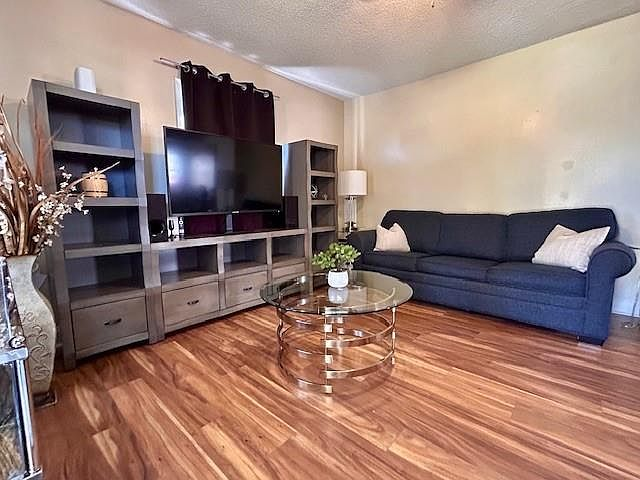
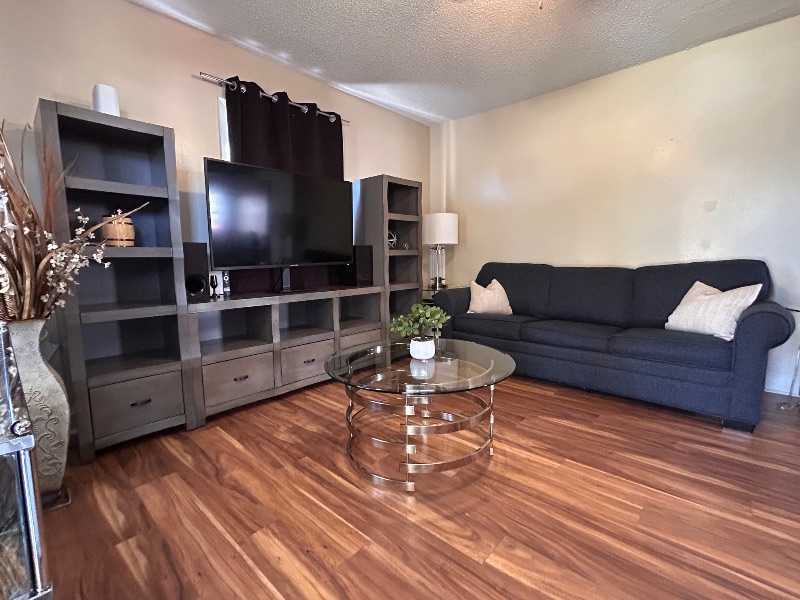
Add Veteran-Managed billing, fix mobile brand, upgrade 508 photos
Billing: "Veteran-Managed" now sits next to "Woman-Owned" in the hero eyebrow
and the About page header. The prose elsewhere already credited StrikeWorks as
veteran-owned; this makes the pairing visible as a badge.

Mobile brand: below 480px the header dropped the company name entirely,
leaving a bare "R". It now hides only the word "Reign" and the location
sub-line, so the mark plus "Property Holdings" still reads as the full name.
The old rule was unscoped and also blanked the footer's brand text; it is now
scoped to .site-header, so the footer keeps its full name.

508 Avenue E photos: bathroom.jpg was not a bathroom. It was an empty bedroom,
mismapped when the Redfin set was renamed earlier, so the gallery labeled a
bedroom "Bathroom" and showed no bathroom at all. It is now the real, currently
renovated bathroom.

The other three swaps replace 640x480 files with 800x600 versions of the same
shots. All four come from the owner's own TurboTenant listing, whose robots.txt
explicitly allows /p/. Re-encoded at quality 82 because the source files ran
~900K for only 800x600.

Worth recording for anyone tempted to re-source these: 1024x682 is the ceiling.
Redfin's bigphoto is its largest variant (islphoto and mbphoto are smaller,
genFull and fullphoto 404), TurboTenant tops out at 800x600, and Zillow is
behind a CAPTCHA. There is no higher-resolution copy to find.

diff --git a/public/property-508-avenue-e.html b/public/property-508-avenue-e.html
@@ -65,7 +65,7 @@
   <div class="container nav">
     <a href="index.html" class="brand">
       <span class="brand-mark">R</span>
-      <span>Reign Property Holdings<span class="brand-sub">New Orleans, LA</span></span>
+      <span class="brand-name"><span class="brand-first">Reign </span>Property Holdings<span class="brand-sub">New Orleans, LA</span></span>
     </a>
     <nav class="nav-links">
       <a href="index.html">Home</a>
@@ -102,16 +102,16 @@
           <img src="images/properties/508-avenue-e/exterior-front.jpg" alt="Front exterior thumbnail" width="1024" height="682" loading="lazy">
         </button>
         <button data-full="images/properties/508-avenue-e/exterior-porch.jpg" data-alt="Front porch at 508 Avenue E">
-          <img src="images/properties/508-avenue-e/exterior-porch.jpg" alt="Front porch thumbnail" width="640" height="480" loading="lazy">
+          <img src="images/properties/508-avenue-e/exterior-porch.jpg" alt="Front porch thumbnail" width="800" height="600" loading="lazy">
         </button>
         <button data-full="images/properties/508-avenue-e/living-room.jpg" data-alt="Living room at 508 Avenue E">
           <img src="images/properties/508-avenue-e/living-room.jpg" alt="Living room thumbnail" width="1024" height="682" loading="lazy">
         </button>
         <button data-full="images/properties/508-avenue-e/living-room-furnished.jpg" data-alt="Living room at 508 Avenue E">
-          <img src="images/properties/508-avenue-e/living-room-furnished.jpg" alt="Living room thumbnail" width="640" height="480" loading="lazy">
+          <img src="images/properties/508-avenue-e/living-room-furnished.jpg" alt="Living room thumbnail" width="800" height="600" loading="lazy">
         </button>
         <button data-full="images/properties/508-avenue-e/living-room-furnished-2.jpg" data-alt="Living room at 508 Avenue E">
-          <img src="images/properties/508-avenue-e/living-room-furnished-2.jpg" alt="Living room thumbnail" width="640" height="480" loading="lazy">
+          <img src="images/properties/508-avenue-e/living-room-furnished-2.jpg" alt="Living room thumbnail" width="800" height="600" loading="lazy">
         </button>
         <button data-full="images/properties/508-avenue-e/kitchen.jpg" data-alt="Kitchen at 508 Avenue E">
           <img src="images/properties/508-avenue-e/kitchen.jpg" alt="Kitchen thumbnail" width="1024" height="682" loading="lazy">
@@ -120,7 +120,7 @@
           <img src="images/properties/508-avenue-e/bedroom.jpg" alt="Bedroom thumbnail" width="1024" height="682" loading="lazy">
         </button>
         <button data-full="images/properties/508-avenue-e/bathroom.jpg" data-alt="Bathroom at 508 Avenue E">
-          <img src="images/properties/508-avenue-e/bathroom.jpg" alt="Bathroom thumbnail" width="1024" height="682" loading="lazy">
+          <img src="images/properties/508-avenue-e/bathroom.jpg" alt="Bathroom thumbnail" width="800" height="600" loading="lazy">
         </button>
       </div>
     </div>

diff --git a/public/index.html b/public/index.html
@@ -45,7 +45,7 @@
   <div class="container nav">
     <a href="index.html" class="brand">
       <span class="brand-mark">R</span>
-      <span>Reign Property Holdings<span class="brand-sub">New Orleans, LA</span></span>
+      <span class="brand-name"><span class="brand-first">Reign </span>Property Holdings<span class="brand-sub">New Orleans, LA</span></span>
     </a>
     <nav class="nav-links">
       <a href="index.html" class="active">Home</a>
@@ -71,7 +71,7 @@
 
 <section class="hero" style="background-image:url('images/properties/1332-tricou/exterior-front.jpg');">
   <div class="container hero-inner">
-    <span class="eyebrow">Louisiana-Based &middot; Woman-Owned &middot; Family-Operated</span>
+    <span class="eyebrow">Louisiana-Based &middot; Woman-Owned &middot; Veteran-Managed &middot; Family-Operated</span>
     <h1>Quality rental homes in New Orleans, managed the right way.</h1>
     <p class="lead">Reign Property Holdings acquires and renovates residential properties across the Greater New Orleans area. Day-to-day management is handled by StrikeWorks, with the same hands-on, resident-first approach.</p>
     <div class="hero-actions">

diff --git a/public/about.html b/public/about.html
@@ -45,7 +45,7 @@
   <div class="container nav">
     <a href="index.html" class="brand">
       <span class="brand-mark">R</span>
-      <span>Reign Property Holdings<span class="brand-sub">New Orleans, LA</span></span>
+      <span class="brand-name"><span class="brand-first">Reign </span>Property Holdings<span class="brand-sub">New Orleans, LA</span></span>
     </a>
     <nav class="nav-links">
       <a href="index.html">Home</a>
@@ -73,7 +73,7 @@
   <div class="container">
     <div class="breadcrumb"><a href="index.html">Home</a> / About</div>
     <h1>About Reign Property Holdings</h1>
-    <p>A Louisiana limited liability company, woman-owned, focused on rental real estate in the Greater New Orleans area.</p>
+    <p>A Louisiana limited liability company, woman-owned and veteran-managed, focused on rental real estate in the Greater New Orleans area.</p>
   </div>
 </section>
 

diff --git a/public/css/style.css b/public/css/style.css
@@ -206,7 +206,13 @@ a { color: inherit; text-decoration: none; }
 }
 
 @media (max-width: 480px) {
-  .brand > span:not(.brand-mark) { display: none; }
+  /* Narrow screens drop the "Reign" word and the location sub-line, leaving
+     the "R" mark followed by "Property Holdings" — which still reads as the
+     full name. Scoped to the header on purpose: the old unscoped rule also
+     blanked the footer's brand text, leaving a bare "R" down there. */
+  .site-header .brand-first,
+  .site-header .brand-sub { display: none; }
+  .site-header .brand { font-size: 1rem; }
   .brand-mark { width: 38px; height: 38px; font-size: 1.1rem; }
 }
 

diff --git a/public/apply.html b/public/apply.html
@@ -45,7 +45,7 @@
   <div class="container nav">
     <a href="index.html" class="brand">
       <span class="brand-mark">R</span>
-      <span>Reign Property Holdings<span class="brand-sub">New Orleans, LA</span></span>
+      <span class="brand-name"><span class="brand-first">Reign </span>Property Holdings<span class="brand-sub">New Orleans, LA</span></span>
     </a>
     <nav class="nav-links">
       <a href="index.html">Home</a>

diff --git a/public/contact.html b/public/contact.html
@@ -45,7 +45,7 @@
   <div class="container nav">
     <a href="index.html" class="brand">
       <span class="brand-mark">R</span>
-      <span>Reign Property Holdings<span class="brand-sub">New Orleans, LA</span></span>
+      <span class="brand-name"><span class="brand-first">Reign </span>Property Holdings<span class="brand-sub">New Orleans, LA</span></span>
     </a>
     <nav class="nav-links">
       <a href="index.html">Home</a>

diff --git a/public/properties.html b/public/properties.html
@@ -45,7 +45,7 @@
   <div class="container nav">
     <a href="index.html" class="brand">
       <span class="brand-mark">R</span>
-      <span>Reign Property Holdings<span class="brand-sub">New Orleans, LA</span></span>
+      <span class="brand-name"><span class="brand-first">Reign </span>Property Holdings<span class="brand-sub">New Orleans, LA</span></span>
     </a>
     <nav class="nav-links">
       <a href="index.html">Home</a>

diff --git a/public/property-1332-tricou-st.html b/public/property-1332-tricou-st.html
@@ -65,7 +65,7 @@
   <div class="container nav">
     <a href="index.html" class="brand">
       <span class="brand-mark">R</span>
-      <span>Reign Property Holdings<span class="brand-sub">New Orleans, LA</span></span>
+      <span class="brand-name"><span class="brand-first">Reign </span>Property Holdings<span class="brand-sub">New Orleans, LA</span></span>
     </a>
     <nav class="nav-links">
       <a href="index.html">Home</a>

diff --git a/public/property-1334-tricou-st.html b/public/property-1334-tricou-st.html
@@ -65,7 +65,7 @@
   <div class="container nav">
     <a href="index.html" class="brand">
       <span class="brand-mark">R</span>
-      <span>Reign Property Holdings<span class="brand-sub">New Orleans, LA</span></span>
+      <span class="brand-name"><span class="brand-first">Reign </span>Property Holdings<span class="brand-sub">New Orleans, LA</span></span>
     </a>
     <nav class="nav-links">
       <a href="index.html">Home</a>
